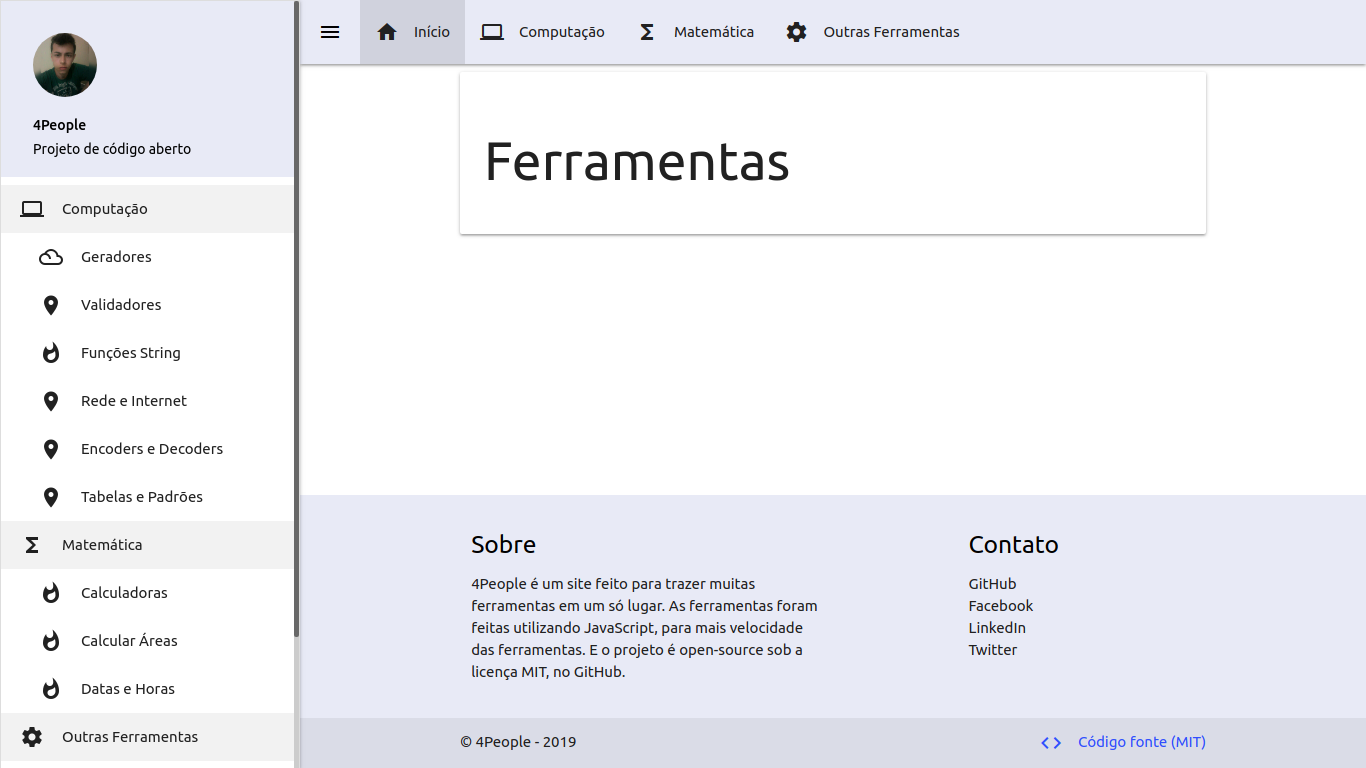
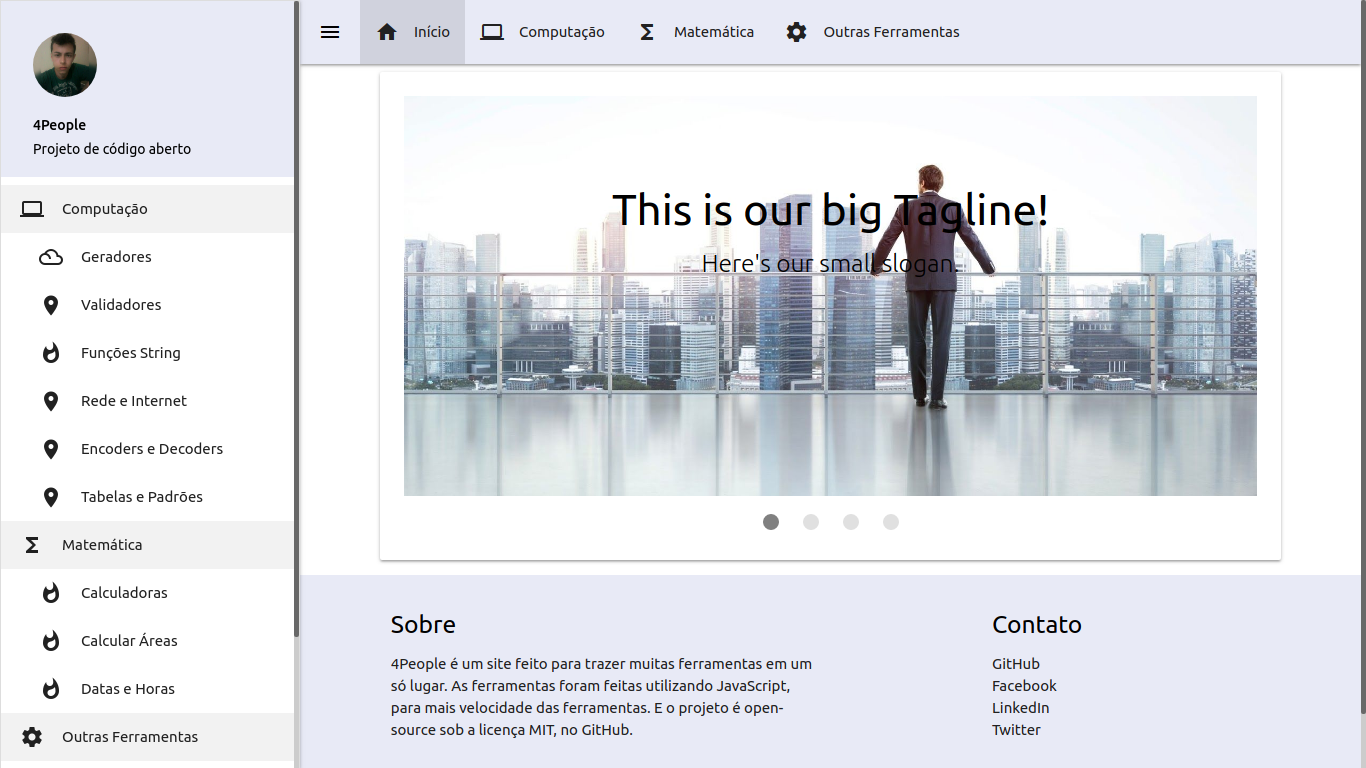
carousel added, more improvements

diff --git a/src/js/scripts.js b/src/js/scripts.js
@@ -14,30 +14,14 @@ if (sessionStorage.getItem('sideStatus') === 'true') {
   animateOut(0)
 }
 
-function animateIn(delay = 200) {
-  document.body.animate([{
-      paddingLeft: '0',
-    },
-    {
-      paddingLeft: '300px',
-    }
-  ], {
-    duration: delay,
-    fill: 'forwards'
-  })
+function animateIn(delay = 250) {
+  document.body.style.transition = `padding-left ${delay}ms`
+  document.body.style.paddingLeft = '300px'
 }
 
-function animateOut(delay = 150) {
-  document.body.animate([{
-      paddingLeft: '300px',
-    },
-    {
-      paddingLeft: '0',
-    }
-  ], {
-    duration: delay,
-    fill: 'forwards'
-  })
+function animateOut(delay = 200) {
+  document.body.style.transition = `padding-left ${delay}ms`
+  document.body.style.paddingLeft = '0'
 }
 
 function sideIn() {

diff --git a/src/css/styles.css b/src/css/styles.css
@@ -27,10 +27,13 @@ body {
   display: none;
   min-height: 100vh;
   flex-direction: column;
+  animation-fill-mode: forwards;
+  animation-delay: 300ms;
+  transition: padding-left 300ms
 }
 
 main {
-  flex: 1 0 auto;
+  flex: 1 0 auto
 }
 
 .collapsible-header,
@@ -61,9 +64,25 @@ main {
   height: 100% !important
 }
 
+@media (min-width: 0px) {
+  .container {
+    width: 100%
+  }
+}
+
+@media (min-width: 601px) {
+  .container {
+    width: 95%
+  }
+}
+
 @media (min-width: 993px) {
   body {
     padding-left: 300px
+  }
+
+  .container {
+    width: 85% !important
   }
 }
 
@@ -81,5 +100,11 @@ main {
 
   ::-webkit-scrollbar-track {
     background-color: #ccc
+  }
+}
+
+@media (min-width: 1200px) {
+  .container {
+    width: 70%
   }
 }

diff --git a/src/js/index.js b/src/js/index.js
@@ -1,0 +1,3 @@
+M.Slider.init(document.querySelectorAll('.slider'), {
+    interval: 4000
+})

diff --git a/src/css/index.css b/src/css/index.css
@@ -1,0 +1,3 @@
+.indicators .active {
+    background-color: grey !important
+}

diff --git a/index.php b/index.php
@@ -3,6 +3,7 @@
 
 <head>
     <?php include_once('components/links.php') ?>
+    <link rel="stylesheet" href="src/css/index.css">
     <title>4People - Ferramentas OnLine</title>
     <meta name="keywords" content="4people,4devs,pessoas,online,ferramentas,desenvolvedores,computacao,matematica,geradores,validadores,faker">
     <?php include_once('components/metas.php') ?>
@@ -38,14 +39,46 @@
     <main>
         <div class="container">
             <div class="card-panel">
-                <h2>Ferramentas</h2>
+                <div class="slider">
+                    <ul class="slides">
+                        <li>
+                            <img src="images/img1.jpg">
+                            <div class="caption center-align">
+                                <h3 class="dark black-text">This is our big Tagline!</h3>
+                                <h5 class="light black-text">Here's our small slogan.</h5>
+                            </div>
+                        </li>
+                        <li>
+                            <img src="images/img2.jpg">
+                            <div class="caption left-align">
+                                <h3 class="dark black-text">Left Aligned Caption</h3>
+                                <h5 class="light black-text">Here's our small slogan.</h5>
+                            </div>
+                        </li>
+                        <li>
+                            <img src="images/img3.jpg">
+                            <div class="caption right-align">
+                                <h3 class="dark black-text">Right Aligned Caption</h3>
+                                <h5 class="light black-text">Here's our small slogan.</h5>
+                            </div>
+                        </li>
+                        <li>
+                            <img src="images/img4.jpg">
+                            <div class="caption center-align">
+                                <h3 class="dark black-text">This is our big Tagline!</h3>
+                                <h5 class="light black-text">Here's our small slogan.</h5>
+                            </div>
+                        </li>
+                    </ul>
+                </div>
             </div>
         </div>
     </main>
 
     <?php include_once('components/footer.php') ?>
 
-    <script src="/src/js/script.js"></script>
+    <script src="src/js/index.js"></script>
+    <script src="/src/js/scripts.js"></script>
 </body>
 
 </html> 

diff --git a/components/links.php b/components/links.php
@@ -1,4 +1,4 @@
 <?=
     '<link rel="stylesheet" href="/src/css/materialize.min.css">
-    <link rel="stylesheet" href="/src/css/style.css">
+    <link rel="stylesheet" href="/src/css/styles.css">
     <script src="/src/js/materialize.min.js"></script>';

diff --git a/computacao/index.php b/computacao/index.php
@@ -46,7 +46,7 @@
 
     <?php include_once('../components/footer.php') ?>
 
-    <script src="/src/js/script.js"></script>
+    <script src="/src/js/scripts.js"></script>
 </body>
 
 </html> 

diff --git a/matematica/index.php b/matematica/index.php
@@ -46,7 +46,7 @@
 
     <?php include_once('../components/footer.php') ?>
 
-    <script src="/src/js/script.js"></script>
+    <script src="/src/js/scripts.js"></script>
 </body>
 
 </html> 

diff --git a/outras_ferramentas/index.php b/outras_ferramentas/index.php
@@ -45,7 +45,7 @@
 
     <?php include_once('../components/footer.php') ?>
 
-    <script src="/src/js/script.js"></script>
+    <script src="/src/js/scripts.js"></script>
 </body>
 
 </html> 

diff --git a/README.md b/README.md
@@ -4,6 +4,9 @@
   **_4People_** é um projeto de TCC que visa criar ferramentas para _pessoas_ usarem no cotidiano e _Programadores_ testarem seus Softwares.
   O **_4People_** disponibiliza ferramentas que vão desde Geradores (Senhas, CPF, RG, Portfólio) até ferramentas para o uso no cotidiano (Sorteadores, Progresso do Ano, etc.) e ferramentas para jogos (Gerador de Decks, Calculadoras, etc.)
 
+## Imagem
+  ![4people](images/4people.png "4People - Início")
+
 ## Integrantes
   - **Lucas Bittencourt**
     - Programador
@@ -14,9 +17,10 @@
   - **Suzany Silva**
     - Teoria/Análise
 
-## Ferramentas
+## Linguagens/Bibliotecas/Frameworks
   - HTML
   - CSS
   - JavaScript
   - PHP
   - FakerJS
+  - MaterializeCSS
